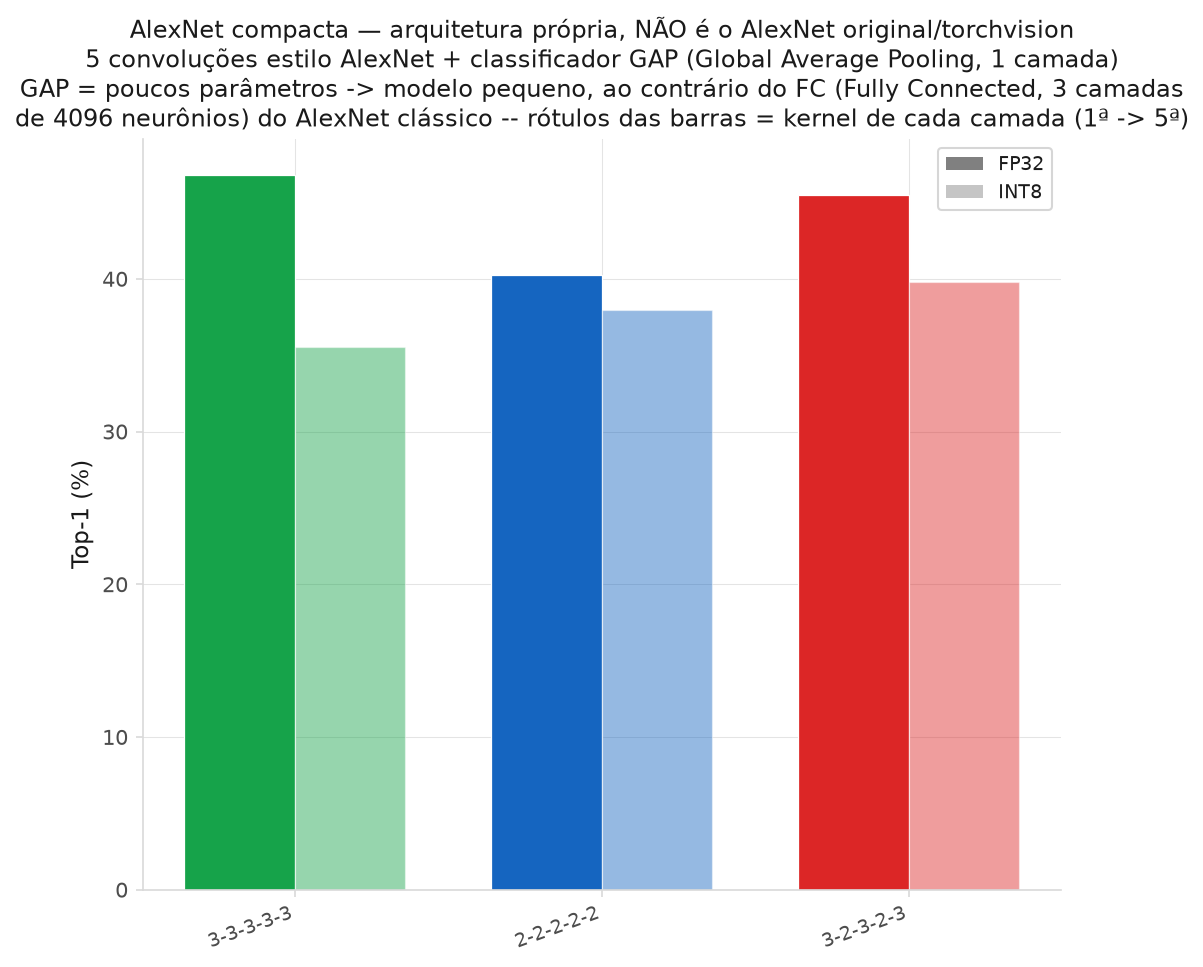
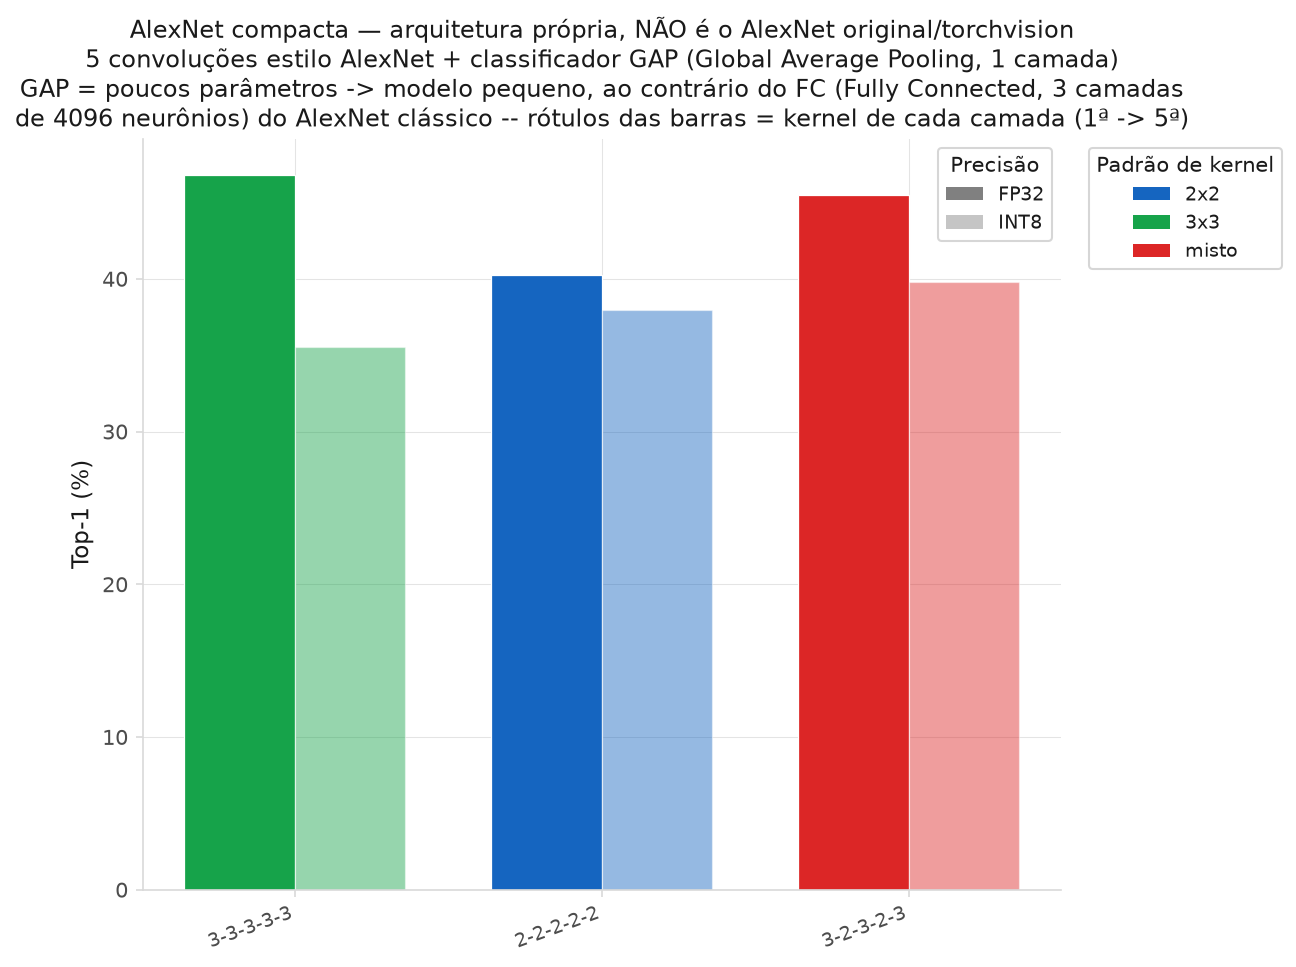
feat: add kernel-pattern color legend to figures 02-04
Those three bar charts colored bars by kernel pattern but only labeled the
FP32/INT8 opacity legend, leaving the color itself unexplained -- unlike
figures 01/08/09 which already carry a "Padrão de kernel" legend. Now
bar_group_legend() takes an optional pattern subset so each family chart
shows only the patterns it actually contains.

diff --git a/scripts/phase11/plot_kernel_comparison.py b/scripts/phase11/plot_kernel_comparison.py
@@ -66,8 +66,9 @@ def savefig(fig, name):
     print(f"wrote {out}")
 
 
-def bar_group_legend(ax, title="Padrão de kernel", loc="upper right", outside=False):
-    handles = [plt.Rectangle((0, 0), 1, 1, facecolor=c, label=p) for p, c in PATTERN_COLOR.items()]
+def bar_group_legend(ax, title="Padrão de kernel", loc="upper right", outside=False, patterns=None):
+    patterns = patterns if patterns is not None else list(PATTERN_COLOR)
+    handles = [plt.Rectangle((0, 0), 1, 1, facecolor=PATTERN_COLOR[p], label=p) for p in patterns]
     kwargs = dict(bbox_to_anchor=(1.02, 1), loc="upper left") if outside else dict(loc=loc)
     ax.legend(handles=handles, title=title, fontsize=9, **kwargs)
 
@@ -139,7 +140,10 @@ def fig_family_bar(models, family, filename, title):
     ax.set_title(title, fontsize=11.5)
     fp32_patch = plt.Rectangle((0, 0), 1, 1, facecolor="gray", label="FP32")
     int8_patch = plt.Rectangle((0, 0), 1, 1, facecolor="gray", alpha=0.45, label="INT8")
-    ax.legend(handles=[fp32_patch, int8_patch], loc="upper right", fontsize=9)
+    precision_legend = ax.legend(handles=[fp32_patch, int8_patch], title="Precisão", loc="upper right", fontsize=9)
+    ax.add_artist(precision_legend)  # kept alive so the pattern-color legend below doesn't replace it
+    present_patterns = [p for p in PATTERN_COLOR if p in {m["pattern"] for m in sub}]
+    bar_group_legend(ax, outside=True, patterns=present_patterns)
     savefig(fig, filename)
 
 
